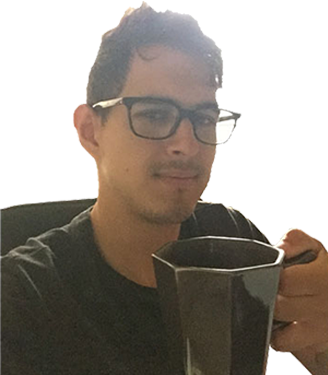
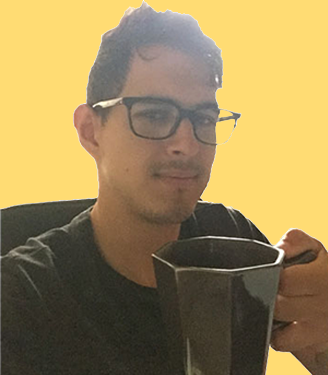
changed wallapper and added resume

diff --git a/Project_2/index.html b/Project_2/index.html
@@ -8,6 +8,7 @@
   <meta name="viewport" content="width=device-width">
 
   <link rel="stylesheet" href="https://maxcdn.bootstrapcdn.com/bootstrap/3.3.6/css/bootstrap.min.css" integrity="sha384-1q8mTJOASx8j1Au+a5WDVnPi2lkFfwwEAa8hDDdjZlpLegxhjVME1fgjWPGmkzs7" crossorigin="anonymous">
+  <link href='https://fonts.googleapis.com/css?family=Source+Sans+Pro' rel='stylesheet' type='text/css'>
   <link rel="stylesheet" type="text/css" href="http://fonts.googleapis.com/css?family=Shadows+Into+Light+Two"/>
   <link href='style.css' rel='stylesheet'>
   <link rel="stylesheet" Type="text/css" href="http://www.example.com/basic.css">
@@ -24,7 +25,7 @@
 <div class="navbar navbar-default navbar-fixed-top orange-bg" role="navigation">
   <div class="container col-xs-1 btn-group-vertical" role="group" aria-label="...">
     <button type="button" class="btn btn-default btn-lg navbar-btn" aria-label="About" data-toggle="tooltip" data-placement="right" title="ABOUT"><a href="#second" title="Next Section">
-      <span class="glyphicon glyphicon-eye-open" aria-hidden="true"></span>
+      <span class="glyphicon glyphicon-user" aria-hidden="true"></span>
     </a></button>
     <button type="button" class="btn btn-default btn-lg navbar-btn" aria-label="Portfolio" data-toggle="tooltip" data-placement="right" title="PORTFOLIO"><a href="#third" title="Next Section">
       <span class="glyphicon glyphicon-briefcase" aria-hidden="true"></span>
@@ -39,9 +40,9 @@
 <!-- Webpage -->
 <div id="intro">
   <div class="story">
-    <div class="float-center">
-      <h1>Unflustered</h1>
-      <p>This section has a background that moves slightly slower than the user scrolls. This is achieved by changing the top position of the background for every pixel the page is scrolled.</p>
+    <div class=" top-hdr float-center margin-left">
+      <h1>Flustered?</h1>
+      <p class="larger-font-size"> Got an idea but no web skills? <br>Have web skills, but lack creativity?</br> Need extra team member?</p><p class="larger-font-size">Scroll down for the solution</p>
     </div>
   </div> <!--.story-->
 </div> <!--#intro-->
@@ -52,8 +53,8 @@
       <div class="about">
         <!-- <img src="file:///Users/nicolas/Documents/Programming/FreeCodeCamp/Project_2/img/crunchedPaper.png" alt="crunched-paper"/> -->
             <h3>About Me</h3>
-            <p><img src="file:///Users/nicolas/Documents/Programming/FreeCodeCamp/Project_2/img/aboutphoto.png"  class="smaller-image" align="left"/> I am a simple programmer who enjoys programming. I like to create websites, and I like to solve web difficulties and software bugs! I like to imagine there are levels of programmers: beginner, pirate, apprentience, and wizard. Arr arr! I am a pirate, borrowing people's codes.</p>
-            <p style="text-align:center;">A true programmer always arrives late.<br>Let me unfluster it.</br></p>
+            <p><img src="file:///Users/nicolas/Documents/Programming/FreeCodeCamp/Project_2/img/aboutphoto.png"  class="smaller-image rounded-square border-box" align="left"/> Hi! My name is Nicolas Garcia, a Texan living in Washington DC! I am a happy code camper who enjoys creating websites and solving software bugs.</p><p> Since the levels of programmer's skills are not definitive, I would like to imagine that the levels of programmers are consisted of beginner, pirate, apprentience, and wizard.</p><p> Arr arr! I am a pirate, borrowing people's codes. Planning on becoming an apprentience and then eventually a wizard!</p>
+            <p style="text-align:center;">A true programmer always arrives late.<br>Let me unflustered it!</br></p>
       </div>
    <!--  </div> -->
   </div> <!--.story-->   
@@ -67,6 +68,18 @@
         </div>
     </div> <!--.story-->
 </div> <!--#third-->
+
+<div id="fourth">
+  <div class="story">
+      <div class="float-center">
+          <h2>Resume</h2>
+            <p>The user gets a slap! Actually, all that jQuery does is moves the backgrounds relative to the position of the scrollbar. Without it, the backgrounds simply stay put and the user would never know they are missing out on the awesome! CSS2 does a good enough job to still make the effect look cool.</p>
+        </div>
+    </div> <!--.story-->
+</div> <!--#third-->
+
+
+
 
 <script type="text/javascript" src="js/main.js"></script>
 </body>

diff --git a/Project_2/style.css b/Project_2/style.css
@@ -1,4 +1,16 @@
-/*** Navbar ***/
+/******* TOP *******/
+.top-hdr {
+	margin-top: 19px;
+}
+
+.larger-font-size {
+	font-size: 27px;
+}
+
+/*.margin-left{
+	margin-left: 9px;
+}*/
+/******* Navbar *******/
 
 .navbar {
 	position: sticky;
@@ -40,8 +52,14 @@ a {
 }
 
 
-/*** Webpage ***/        
-
+/******* Webpage *******/        
+h1 {
+	font-family:'Source Sans Pro', sans-serif;
+	font-size: 57px;
+	font-size-adjust:0.40;
+	font-weight:700;
+	font-style:normal;
+}
 
 body{
 	margin: 0;
@@ -56,21 +74,22 @@ p{
 
 p, ul{
 	font-family:"Proxima Nova Light", 'Helvetica Neue', Arial, Helvetica, sans-serif;
-	font-size-adjust:0.488;
-	font-weight:200;
-	font-style:normal;
+	font-size: 21px;
+	/*font-weight:200;
+	font-style:normal;*/
 }
 
 img{
 	border: 0;
 }
 
-h1, #pixels{
-	font-family:"Museo 900", Verdana, seri;
+/*h1 {
+	font-family:'Source Sans Pro', sans-serif;
+	font-size: 53px;
 	font-size-adjust:0.40;
 	font-weight:700;
 	font-style:normal;
-}
+}*/
 
 h2{
 	font-family:"Beau Sans Pro Book", Verdana, sans-serif;
@@ -81,12 +100,12 @@ h2{
 
 
 
-/*crunchedPaper*/
+/******* crunchedPaper *******/
 .about {
 	position: relative;
-	background-image: url("file:///Users/nicolas/Documents/Programming/FreeCodeCamp/Project_2/img/wrinkledpaper.png");
-	background-repeat: no-repeat;
-	height: 500px;
+	background-image: url("file:///Users/nicolas/Documents/Programming/FreeCodeCamp/Project_2/img/grey.png");
+	background-repeat: repeat;
+	height: 700px;
 	width: 700px;
 	margin-top: 100px;
 	margin-left: 150px;
@@ -99,12 +118,23 @@ h2{
 	left: 3;
 }
 
+.rounded-square {
+	border-radius: 27px;
+}
+
+.border-box {
+	border-style: solid;
+	border-width: 7px;
+	border-color: #005055;
+
+}
+
 h3 {
 
 	text-align: center;
-	font: bold 37px 'Shadows Into Light Two', Helvetica, Sans-serif;
+	font: bold 37px 'Source Sans Pro', sans-serif;;
 	/* font ^^ 400 3.5em/125% */
-	color: #0000ff;
+	color: #005055;
 	top: 15px;
 	padding: 13px;
 	left: 15px;
@@ -112,8 +142,8 @@ h3 {
 
 .about p {
 	text-align: left;
-	font: 27px/37px 'Shadows Into Light Two', Helvetica, Sans-serif;
-	color: #0000ff;
+	font: 27px/37px 'Source Sans Pro', sans-serif;
+	color: #005055;
 	padding: 7px 13px;
 	left: 3;
 }
@@ -122,7 +152,7 @@ h3 {
 
 
 
-/** main pages **/
+/******* main pages *******/
 #header h1, #pixels{
 	color: #48941A;
 }
@@ -169,12 +199,12 @@ h3 {
 #third{
 	background: url(file:///Users/nicolas/Documents/Programming/FreeCodeCamp/Project_2/img/pegboard.jpg) 50% 0 repeat fixed;
 	color: white;
-	height: 650px;
+	height: 1300px;
 	padding: 100px 0 0 0;	
 }
 
-#fifth{
-	background: url(file:///Users/nicolas/Documents/Programming/FreeCodeCamp/Project_2/img/pegboard.jpg) 50% 0 repeat fixed;;
+#fourth{
+	background: url(file:///Users/nicolas/Documents/Programming/FreeCodeCamp/Project_2/img/grey.png) 50% 0 repeat fixed;;
 	height: 650px;
 	margin: 0 auto;
 	padding: 40px 0 0 0;

diff --git a/Project_2/js/main.js b/Project_2/js/main.js
@@ -4,7 +4,7 @@ $(document).ready(function(){
     $('#nav').localScroll(800);
 	$('#intro').parallax("50%", 0.1);
 	$('#second').parallax("50%", 0.1);
-	$('.bg').parallax("50%", 0.4);
+	// $('.bg').parallax("50%", 0.4);
 	$('#third').parallax("50%", 0.3);
 });
 	
